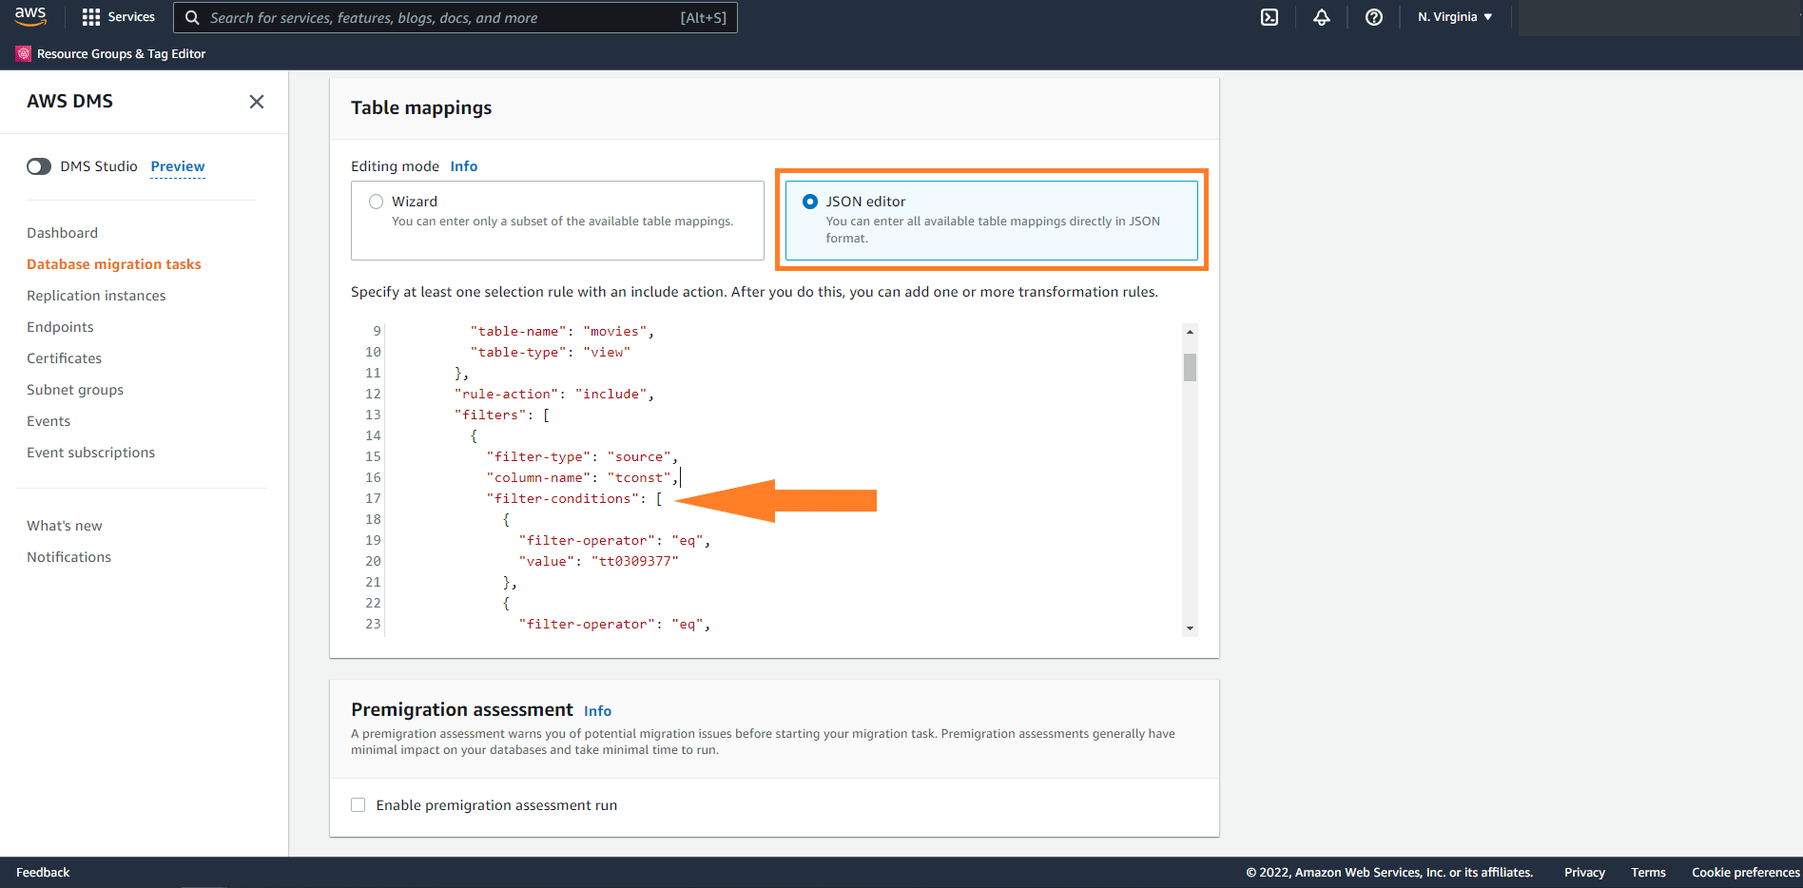
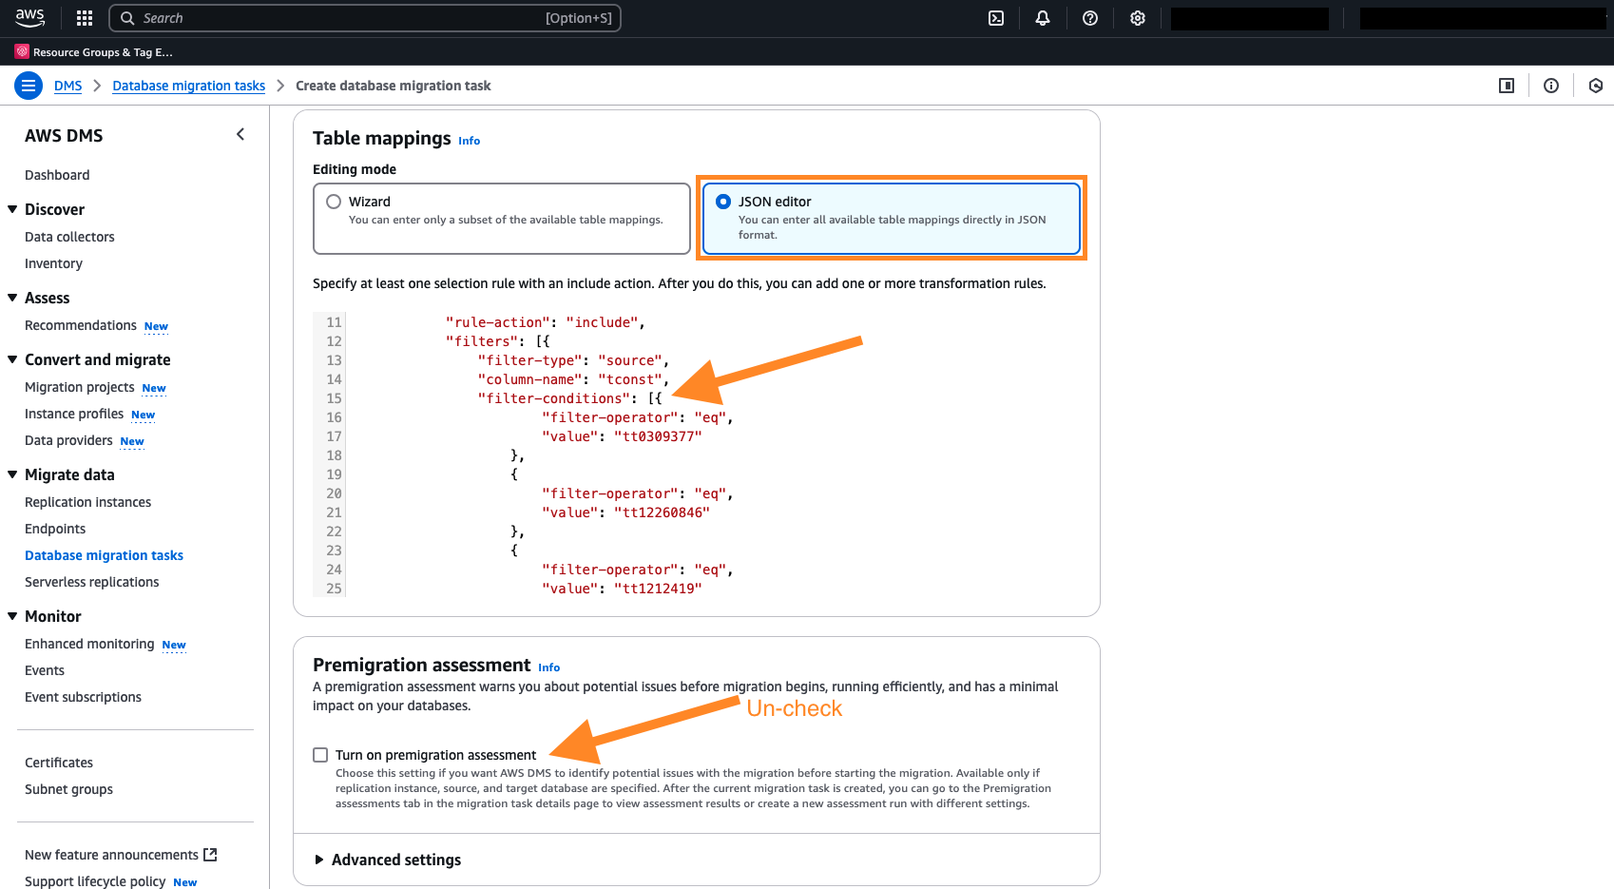
Aman diffs - bringing repos in sync (#128)
* Pulling in aman's changes

* moving images

* Pulling upstream

* Adding sync script

* Adding additional information in public repo about private instructions

diff --git a/content/rdbms-migration/migration-chapter05.en.md b/content/rdbms-migration/migration-chapter05.en.md
@@ -9,14 +9,28 @@ In this exercise, we will set up Database Migration Service (DMS) jobs to migrat
 
 ## Verify DMS creation
 
-1. Go to [DMS Console](https://console.aws.amazon.com/dms/v2/home?region=us-east-1#dashboard) and click on Replication Instances. You can able to see a replication instance with Class dms.c5.2xlarge in Available Status.
+1. Go to [DMS Console](https://console.aws.amazon.com/dms/v2/home?region=us-east-1#dashboard) and click on **Replication Instances**. You should be able to see a replication instance with **Class** `dms.c5.2xlarge` in `Available` **Status**.
     ![Final Deployment Architecture](/static/images/migration20.jpg)
 
 ::alert[_Make sure the DMS instance is Available before you continue. If it is not Available, return to the CloudFormation console to review and troubleshoot the CloudFormation stack._]
 
+## Update inbound rules for MySQL instance security group to allow access from DMS IP
+
+1. Select the `mysqltodynamo-instance` DMS replication instance, copy its **Public IP address**.
+
+![Copy DMS Public IP](/static/images/migration52.png)
+
+2. Open [EC2 console](https://console.aws.amazon.com/ec2/v2/home#Instances:instanceState=running), select **MySQL-Instance**. Under the **Security** tab, select the security group of the MySQL instance (eg: `sg-xxxxx`).
+
+![Open MySQL EC2 Security Group](/static/images/migration53.png)
+
+3. Select **Edit inbound rules**, then **Add rule**. Select **MYSQL/Aurora** in **Type**, and paste the Public IP address of the MySQL Instance with a `/32` suffix. For example, for IP `54.X.X.X`, enter `54.X.X.X/32` in **Source**. Finally, select **Save rules**.
+
+![Edit inbound rules of Security Group](/static/images/migration54.png)
+
 ## Create source and target endpoints
 
-1.  Click on Endpoints and Create endpoint button
+1.  From the DMS console, select **Endpoints** and then **Create endpoint**.
     ![Final Deployment Architecture](/static/images/migration21.jpg)
 2.  Create the source endpoint. Use the following parameters to configure the endpoint:
 
@@ -26,17 +40,19 @@ In this exercise, we will set up Database Migration Service (DMS) jobs to migrat
     | Endpoint identifier |                                                                            mysql-endpoint                                                                             |
     | Source engine       |                                                                                 MySQL                                                                                 |
     | Access to endpoint database |                                         Select the "Provide access information manually" radio button                                                         |
-    | Server name         | From the [EC2 dashboard](https://console.aws.amazon.com/ec2/v2/home?region=us-east-1#Instances:instanceState=running), select MySQL-Instance and copy Public IPv4 DNS |
+    | Server name         | From the [EC2 dashboard](https://console.aws.amazon.com/ec2/v2/home#Instances:instanceState=running), select MySQL-Instance and copy Public IPv4 DNS |
     | Port                |                                                                                 3306                                                                                  |
     | SSL mode            |                                                                                 none                                                                                  |
     | User name           |                                            Value of DbMasterUsername added as parameter during Configure MySQL Environment                                            |
     | Password            |                                            Value of DbMasterPassword added as parameter during Configure MySQL Environment                                            |
 
-    ![Final Deployment Architecture](/static/images/migration22.jpg)
-    Open Test endpoint connection (optional) section, then in the VPC drop-down select DMS-VPC and click the Run test button to verify that your endpoint configuration is valid. The test will run for a minute and you should see a successful message in the Status column. Click on the Create endpoint button to create the endpoint. If you see a connection error, re-type the username and password to ensure no mistakes were made. Further, ensure you provided the IPv4 DNS name ending in amazonaws.com in the field **Server name**.
-    ![Final Deployment Architecture](/static/images/migration23.jpg)
+![Final Deployment Architecture](/static/images/migration22.jpg)
 
-4.  Create the target endpoint. Repeat all steps to create the target endpoint with the following parameter values:
+3. Open **Test endpoint connection (optional)** section, then in the **VPC** drop-down select **DMS-VPC** and click the **Run test** to verify that your endpoint configuration is valid. The test will run for a minute and you should see a *successful* message in the **Status** column. Click on the **Create endpoint** to create the endpoint. If you see a connection error, re-type the username and password to ensure no mistakes were made. Further, ensure you provided the IPv4 DNS name ending in `amazonaws.com` in the field **Server name**.
+
+![Final Deployment Architecture](/static/images/migration23.jpg)
+
+4. Create the target endpoint. Repeat all steps to create the target endpoint with the following parameter values:
 
     | Parameter               |                                                                                            Value                                                                                            |
     | ----------------------- | :-----------------------------------------------------------------------------------------------------------------------------------------------------------------------------------------: |
@@ -45,18 +61,19 @@ In this exercise, we will set up Database Migration Service (DMS) jobs to migrat
     | Target engine           |                                                                                       Amazon DynamoDB                                                                                       |
     | Service access role ARN | CloudFormation template has created new role with full access to Amazon DynamoDB. Copy Role ARN from [dynamodb-access](https://us-east-1.console.aws.amazon.com/iamv2/home#/roles/details/dynamodb-access?section=permissions) role |
 
-    ![Final Deployment Architecture](/static/images/migration24.jpg)
-    Open Test endpoint connection (optional) section, then in the VPC drop-down select DMS-VPC and click the Run test button to verify that your endpoint configuration is valid. The test will run for a minute and you should see a successful message in the Status column. Click on the Create endpoint button to create the endpoint.
+![Final Deployment Architecture](/static/images/migration24.jpg)
+
+5. Open **Test endpoint connection (optional)** section, then in the **VPC** drop-down select **DMS-VPC** and select **Run test** to verify that your endpoint configuration is valid. The test will run for a minute and you should see a *successful* message in the **Status** column. Click **Create endpoint** to create the endpoint.
 
 ## Configure and Run a Replication Task
 
-Still in the AWS DMS console, go to Database migration tasks and click the Create Task button. We will create 3 replication jobs to migrate denormalized view, ratings (title_ratings) and regions/languages (title_akas) information.
+Still in the AWS DMS console, go to **Database migration tasks** and click on **Create database migration task**. We will create 3 replication jobs to migrate denormalized view, ratings (`title_ratings`) and regions/languages (`title_akas`) information.
 
 1. Task1: Enter the following parameter values in the Create database migration task screen:
 
    | Parameter                                    |                                     Value                                     |
    | -------------------------------------------- | :---------------------------------------------------------------------------: |
-   | Task identified                              |                            historical-migration01                             |
+   | Task identifier                              |                            historical-migration01                             |
    | Replication instance                         |                          mysqltodynamodb-instance-\*                          |
    | Source database endpoint                     |                                mysql-endpoint                                 |
    | Target database endpoint                     |                               dynamodb-endpoint                               |
@@ -76,7 +93,7 @@ Some statistics around full dataset is give at the bottom of this chapter.
 
 Copy list of selective movies by Clint Eastwood.
 
-```
+```json
     {
       "filter-operator": "eq",
       "value": "tt0309377"
@@ -179,7 +196,7 @@ Copy list of selective movies by Clint Eastwood.
     }
 ```
 
-Below JSON document will migrate denormalized view from imdb MySQL database (Task identified: historical-migration01).
+Below JSON document will migrate denormalized view from imdb MySQL database (Task identifier: `historical-migration01`).
 Replace the string “REPLACE THIS STRING BY MOVIES LIST” with list of movies copied earlier (Checkout following screenshot for any confusion). Then paste the resulting JSON code in to the JSON editor, replacing the existing code.
 ```json
 {
@@ -238,11 +255,14 @@ Replace the string “REPLACE THIS STRING BY MOVIES LIST” with list of movies 
 ```
 
 ![Final Deployment Architecture](/static/images/migration36.png)
-Go to the bottom and click on Create task. At this point the task will be created and will automatically start loading selected movies from source to target DynamoDB table. 
-You can move forward and create two more tasks with similar steps (historical-migration02 and historical-migration03).
-Use the same settings as above except the Table Mappings JSON document. For historical-migration02 and historical-migration03 tasks use the JSON document mentioned below.
 
-Below JSON document will migrate title_akas table from imdb MySQL database (Task identified: historical-migration02)
+::alert[Make sure the **Turn on premigration assessment** is un-checked. For MySQL based source databases, AWS DMS supports running a bunch of validations as part of a premigration assessment like if binlog compression is disabled, or DMS has replication priveleges. Full list in [AWS Documentation](https://docs.aws.amazon.com/dms/latest/userguide/CHAP_Tasks.AssessmentReport.MySQL.html).]
+
+Go to the bottom and click on **Create database migraton task**. At this point the task will be created and will automatically start loading selected movies from source to target DynamoDB table. 
+You can move forward and create two more tasks with similar steps (`historical-migration02` and `historical-migration03`).
+Use the same settings as above except the Table Mappings JSON document. For `historical-migration02` and `historical-migration03` tasks use the JSON document mentioned below.
+
+Below JSON document will migrate title_akas table from imdb MySQL database (Task identifier: `historical-migration02`)
 Replace the string "REPLACE THIS STRING BY MOVIES LIST" with list of movies copied earlier.
 
 ```json
@@ -301,7 +321,7 @@ Replace the string "REPLACE THIS STRING BY MOVIES LIST" with list of movies copi
 }
 ```
 
-Below JSON document will migrate title_ratings table from imdb MySQL database (Task identified: historical-migration03)
+Below JSON document will migrate title_ratings table from imdb MySQL database (Task identifier: `historical-migration03`)
 Replace the string "REPLACE THIS STRING BY MOVIES LIST" with list of movies copied earlier.
 
 ```json
@@ -368,7 +388,7 @@ Replace the string "REPLACE THIS STRING BY MOVIES LIST" with list of movies copi
 ::::
 
 ### Monitor and the restart/resume the tasks
-The replication task for historical migration will start moving data from MySQL imdb.movies view, title_akas and title_ratings to DynamoDB table will start in a few minutes.
+The replication task for historical migration will start moving data from MySQL `imdb.movies` view, `title_akas` and `title_ratings` to DynamoDB table will start in a few minutes.
 If you are loading selective records based on the list above, it may take 5-10 minutes to complete all three tasks.
 
 If you were to run this exercise again but do a full load, the load times would be as follows:

diff --git a/content/rdbms-migration/migration-chapter02-1.en.md b/content/rdbms-migration/migration-chapter02-1.en.md
@@ -5,23 +5,23 @@ date: 2021-04-25T07:33:04-05:00
 weight: 25
 ---
 
-Let's create the DMS resources for the workshop.
+Let's create the DMS resources for the workshop. First, we ensure if a DMS service role `dms-vpc-role` is already available. Then we need to deploy the DMS resources.
 
-1.  Go to IAM console > Roles > Create Role
-2.  Under “Select trusted entity” select “AWS service” then under “Use case” select “DMS” from the pulldown list and click the “DMS” radio button. Then click “Next”
-3.  Under “Add permissions” use the search box to find the “AmazonDMSVPCManagementRole” policy and select it, then click “Next”
-5.  Under “Name, review, and create” add the role name as exactly `dms-vpc-role` and click Create role
+1.  Go to IAM console > Roles > Search for `dms-vpc-role`. If you see a role, skip to the CloudFormation stack deployment. Else, select **Create role** and follow next steps.
+2.  Under **Select trusted entity** select **AWS service** then under **Use case** select **DMS** from the drop-down and click the **DMS** radio button. Then click **Next**
+3.  Under **Add permissions** use the search box to find the `AmazonDMSVPCManagementRole` policy and select it, then click **Next**
+5.  Under **Name, review, and create** add the role name as exactly `dms-vpc-role` and click **Create role**
 
 ::alert[_Do not continue unless you have made the IAM role._]
 
-1. Launch the CloudFormation template in US West 2 to deploy the resources in your account: [![CloudFormation](/static/images/cloudformation-launch-stack.png)](https://console.aws.amazon.com/cloudformation/home?region=us-west-2#/stacks/new?stackName=dynamodbmigration&templateURL=:param{key="lhol_migration_dms_setup_yaml"})  
+1. Launch the CloudFormation template in the workshop region to deploy the resources in your account: [![CloudFormation](/static/images/cloudformation-launch-stack.png)](https://console.aws.amazon.com/cloudformation/home#/stacks/new?stackName=dynamodbmigration&templateURL=:param{key="lhol_migration_dms_setup_yaml"})  
     1. *Optionally, download [the YAML template](:param{key="lhol_migration_dms_setup_yaml"}) and launch it your own way*
-9.  Click Next
-10. Confirm the Stack Name *dynamodbmigration* and keep the default parameters (modify if necessary)
+9.  Click **Next**
+10. Confirm the Stack name `dynamodbmigration` and keep the default parameters (modify if necessary)
     ![Final Deployment Architecture](/static/images/migration18.jpg)
-11. Click “Next” twice
-12. Check “I acknowledge that AWS CloudFormation might create IAM resources with custom names.”
-1.  Click Submit. The CloudFormation template will take about 15 minutes to build a replication environment. You should continue the lab while the stack creates in the background.
+11. Click **Next** twice
+12. Check ***I acknowledge that AWS CloudFormation might create IAM resources with custom names***.
+1.  Click **Submit**. The CloudFormation template will take about 15 minutes to build a replication environment. You should continue the lab while the stack creates in the background.
     ![Final Deployment Architecture](/static/images/migration19.jpg)
 
 ::alert[_Do not wait for the stack to complete creation._ **Please continue the lab and allow it to create in the background.**]

diff --git a/content/rdbms-migration/migration-chapter02.en.md b/content/rdbms-migration/migration-chapter02.en.md
@@ -5,18 +5,21 @@ date: 2021-04-25T07:33:04-05:00
 weight: 20
 ---
 This chapter will create source environment on AWS as discussed during Exercise Overview.
+
+::alert[MySQL Environment with data has already been deployed in your workshop account. No action is required on this page. The following steps are for you to learn. Head over to next page to deploy DMS resources.]
+
 The CloudFormation template used below will create Source VPC, EC2 hosting MySQL server, IMDb database and load IMDb public dataset into 6 tables.
 
-1. Launch the CloudFormation template in US West 2 to deploy the resources in your account: [![CloudFormation](/static/images/cloudformation-launch-stack.png)](https://console.aws.amazon.com/cloudformation/home?region=us-west-2#/stacks/new?stackName=rdbmsmigration&templateURL=:param{key="lhol_migration_setup_yaml"})  
+1. Launch the CloudFormation template in workshop region to deploy the resources in your account: [![CloudFormation](/static/images/cloudformation-launch-stack.png)](https://console.aws.amazon.com/cloudformation/home#/stacks/new?stackName=rdbmsmigration&templateURL=:param{key="lhol_migration_setup_yaml"})  
     1. *Optionally, download [the YAML template](:param{key="lhol_migration_setup_yaml"}) and launch it your own way*
- 4. Click Next
- 5. Confirm the Stack Name *rdbmsmigration* and update parameters if necessary (leave the default options if at all possible)
+ 4. Click **Next**
+ 5. Confirm the Stack name `rdbmsmigration` and update parameters if necessary (leave the default options if at all possible)
    ![Final Deployment Architecture](/static/images/migration6.jpg)
- 6. Click “Next” twice then check “I acknowledge that AWS CloudFormation might create IAM resources with custom names.”
- 7. Click "Submit"
+ 6. Click **Next** twice then check ***I acknowledge that AWS CloudFormation might create IAM resources with custom names***.
+ 7. Click **Submit**
  8. The CloudFormation stack will take about 5 minutes to build the environment
   ![Final Deployment Architecture](/static/images/migration7.jpg)
- 9. Go to [EC2 Dashboard](https://console.aws.amazon.com/ec2/v2/home?region=us-west-2#Instances:)  and ensure the Status check column is 2/2 checks passed before moving to the next step.
+ 9. Go to [EC2 Dashboard](https://console.aws.amazon.com/ec2/v2/home#Instances:)  and ensure the **Status check** column is 2/2 checks passed before moving to the next step.
  ![Final Deployment Architecture](/static/images/migration8.jpg)
 
 

diff --git a/content/rdbms-migration/migration-chapter00.en.md b/content/rdbms-migration/migration-chapter00.en.md
@@ -6,17 +6,17 @@ weight: 10
 ---
 In this module, you will create an environment to host the MySQL database on Amazon EC2. This instance will be used to host source database and simulate on-premise side of migration architecture.
 All the resources to configure source infrastructure are deployed via [Amazon CloudFormation](https://aws.amazon.com/cloudformation/) template.
-There are two CloudFormation templates used in this exercise which will deploy following resources.
+There are two CloudFormation templates used in this exercise which deploy the following resources.
 
-CloudFormation MySQL Template Resources:
-  - OnPrem VPC: Source VPC will represent an on-premise source environment in the N. Virginia region. This VPC will host source MySQL database on Amazon EC2
-  - Amazon EC2 MySQL Database: Amazon EC2 Amazon Linux 2 AMI with MySQL installed and running
-  - Load IMDb dataset: The template will create IMDb database on MySQL and load IMDb public dataset files into database. You can learn more about IMDb dataset inside [Explore Source Model](/hands-on-labs/rdbms-migration/migration-chapter03)
+CloudFormation MySQL Template Resources (**Already deployed**):
+  - **OnPrem VPC**: Source VPC will represent an on-premise source environment in the workshop region. This VPC will host source MySQL database on Amazon EC2
+  - **Amazon EC2 MySQL Database**: Amazon EC2 Amazon Linux 2 AMI with MySQL installed and running
+  - **Load IMDb dataset**: The template will create IMDb database on MySQL and load IMDb public dataset files into database. You can learn more about IMDb dataset inside [Explore Source Model](/hands-on-labs/rdbms-migration/migration-chapter03)
 
 
 
-CloudFormation DMS Instance Resources:
-  - DMS VPC:  Migration VPC on in the N. Virginia region. This VPC will host DMS replication instance.
-  - Replication Instance: DMS Replication instance that will facilitate database migration from source MySQL server on EC2 to Amazon DynamoDB
+CloudFormation DMS Instance Resources (**Needs deploying**):
+  - **DMS VPC**:  Migration VPC in the workshop region. This VPC will host DMS replication instance.
+  - **Replication Instance**: DMS Replication instance that will facilitate database migration from source MySQL server on EC2 to Amazon DynamoDB
 
 ![Final Deployment Architecture](/static/images/migration-environment.png)

diff --git a/content/rdbms-migration/migration-chapter03.en.md b/content/rdbms-migration/migration-chapter03.en.md
@@ -13,10 +13,10 @@ It created a MySQL database called `imdb`, added 6 new tables (one for each IMDb
 The CloudFormation template also configured a remote MySQL user based on input parameters for the template. 
 To explore the dataset, follow the instructions below to log in to the EC2 server.
 
- 1. Go to [EC2 console](https://console.aws.amazon.com/ec2/v2/home?region=us-east-1#Instances:instanceState=running).
- 2. Select the MySQL Instance and click Connect.
+ 1. Go to [EC2 console](https://console.aws.amazon.com/ec2/v2/home#Instances:instanceState=running).
+ 2. Select the MySQL Instance and click **Connect**.
     ![Final Deployment Architecture](/static/images/migration9.jpg)
- 3. Make sure "ec2-user" is in the Username field. Click Connect.
+ 3. Make sure `ec2-user` is in the **User name** field. Click **Connect**.
     ![Final Deployment Architecture](/static/images/migration10.jpg)
  4. Elevate your privileges using the `sudo` command.
     ```bash
@@ -31,7 +31,7 @@ To explore the dataset, follow the instructions below to log in to the EC2 serve
  6. You can see all the 6 files copied from the IMDB dataset to the local EC2 directory.
     ![Final Deployment Architecture](/static/images/migration12.jpg)
  7. Feel free to explore the files.
- 8. Go to AWS CloudFormation [Stacks](https://console.aws.amazon.com/cloudformation/home?region=us-east-1#/stacks?filteringStatus=active&filteringText=&viewNested=true&hideStacks=false) and click on the stack you created earlier. Go to the Parameters tab and copy the username and password listed next to "DbMasterUsername" and "DbMasterPassword".
+ 8. Go to [AWS CloudFormation Console](https://console.aws.amazon.com/cloudformation/home#/stacks?filteringStatus=active&filteringText=&viewNested=true&hideStacks=false) and click on the stack you created earlier. Go to the **Parameters** tab and copy the username and password listed next to **DbMasterUsername** and **DbMasterPassword**.
    ![Final Deployment Architecture](/static/images/migration13.jpg)
  9. Go back to EC2 Instance console and login to mysql.
   ```bash

diff --git a/content/rdbms-migration/migration-chapter04.en.md b/content/rdbms-migration/migration-chapter04.en.md
@@ -10,6 +10,7 @@ You can often query the data from multiple tables and assemble at the presentati
 To support high-traffic queries with ultra-low latency, designing a schema to take advantage of a NoSQL system generally makes technical and economic sense.
 
 To start designing a target data model in Amazon DynamoDB that will scale efficiently, you must identify the common access patterns. For the IMDb use case we have identified a set of access patterns as described below:
+
 ![Final Deployment Architecture](/static/images/migration32.png)
 
 A common approach to DynamoDB schema design is to identify application layer entities and use denormalization and composite key aggregation to reduce query complexity.

diff --git a/content/relational-migration/setup/index2.en.md b/content/relational-migration/setup/index2.en.md
@@ -25,7 +25,7 @@ The Lambda source code project has been setup as follows
   * **chalicelib/dynamodb_calls.py**
 
 
-1. Next, let's deploy the Chalice application stack. This step may take a few minutes to complete.
+1. Next, let's deploy the Chalice application stack. This step may take a few minutes to complete. 
 ```bash
 chalice deploy --stage relational
 ```
